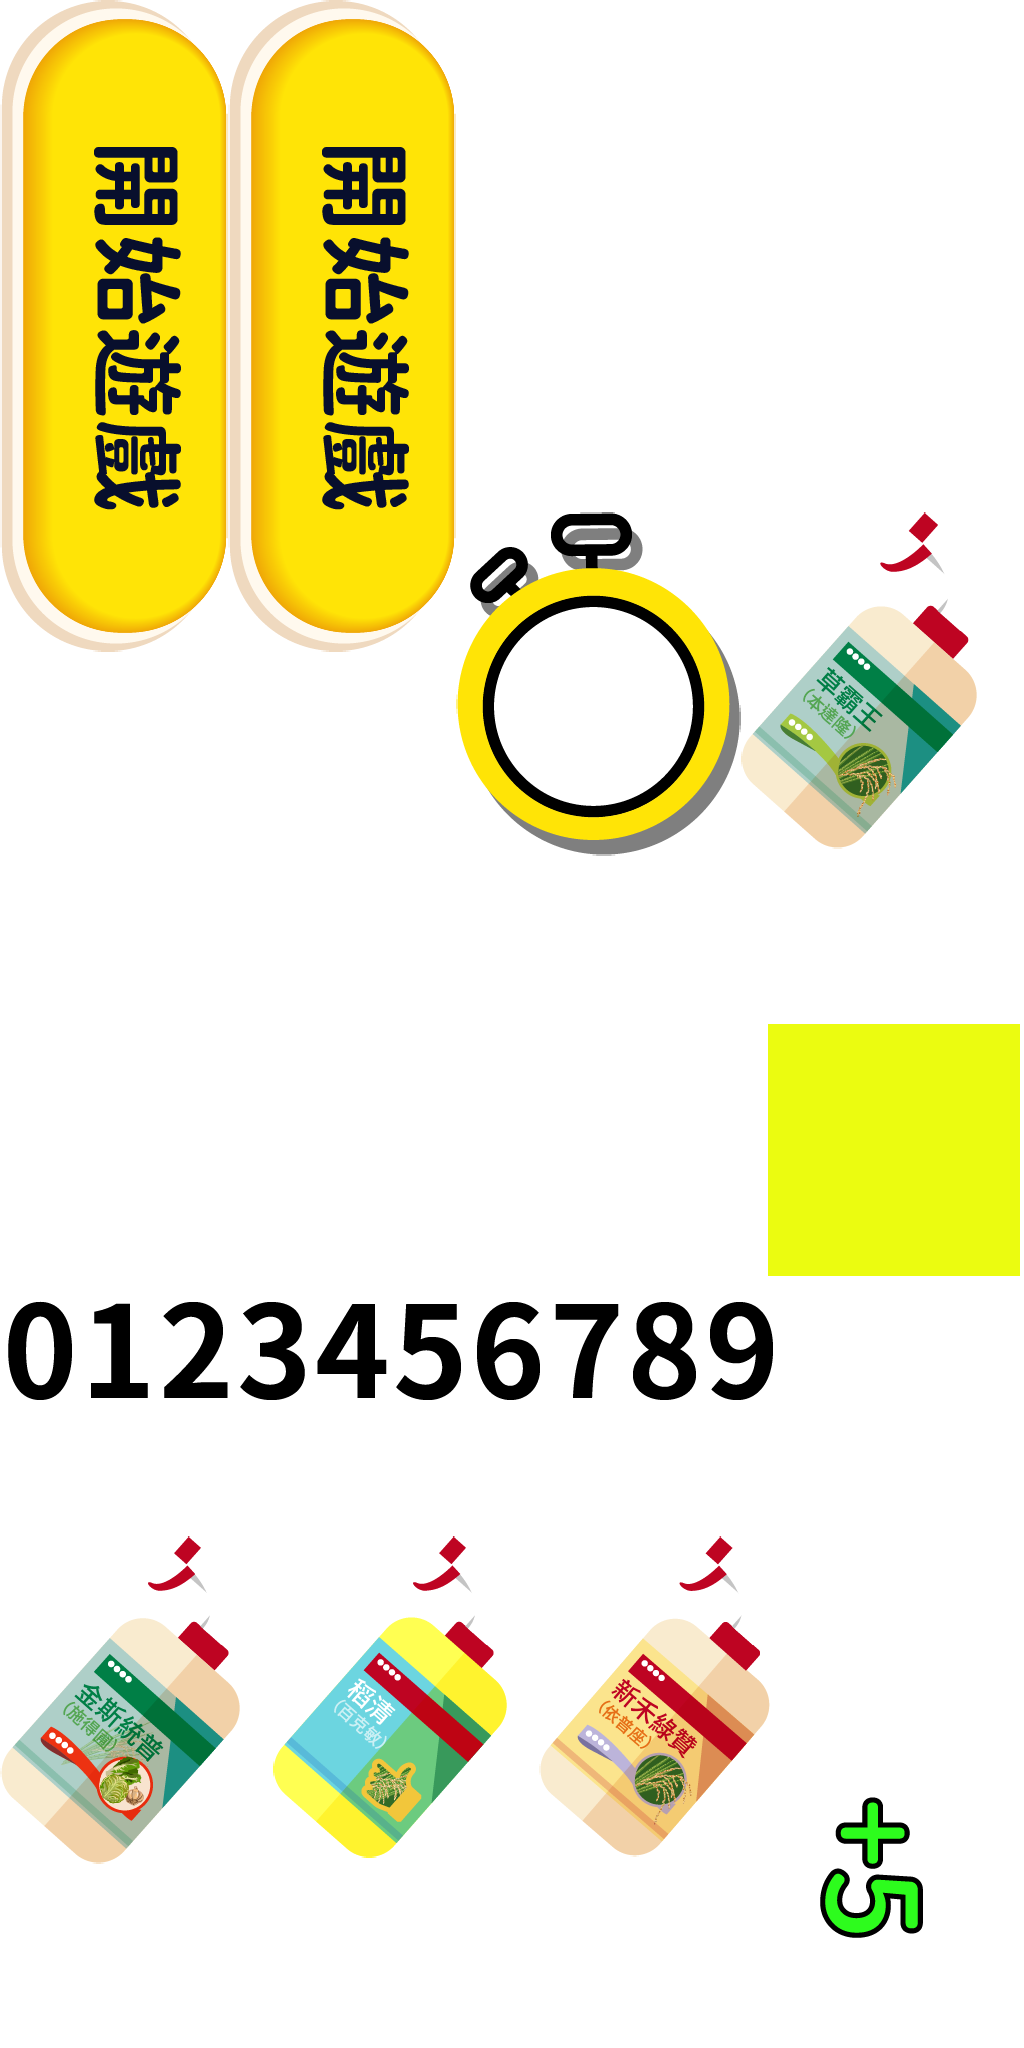
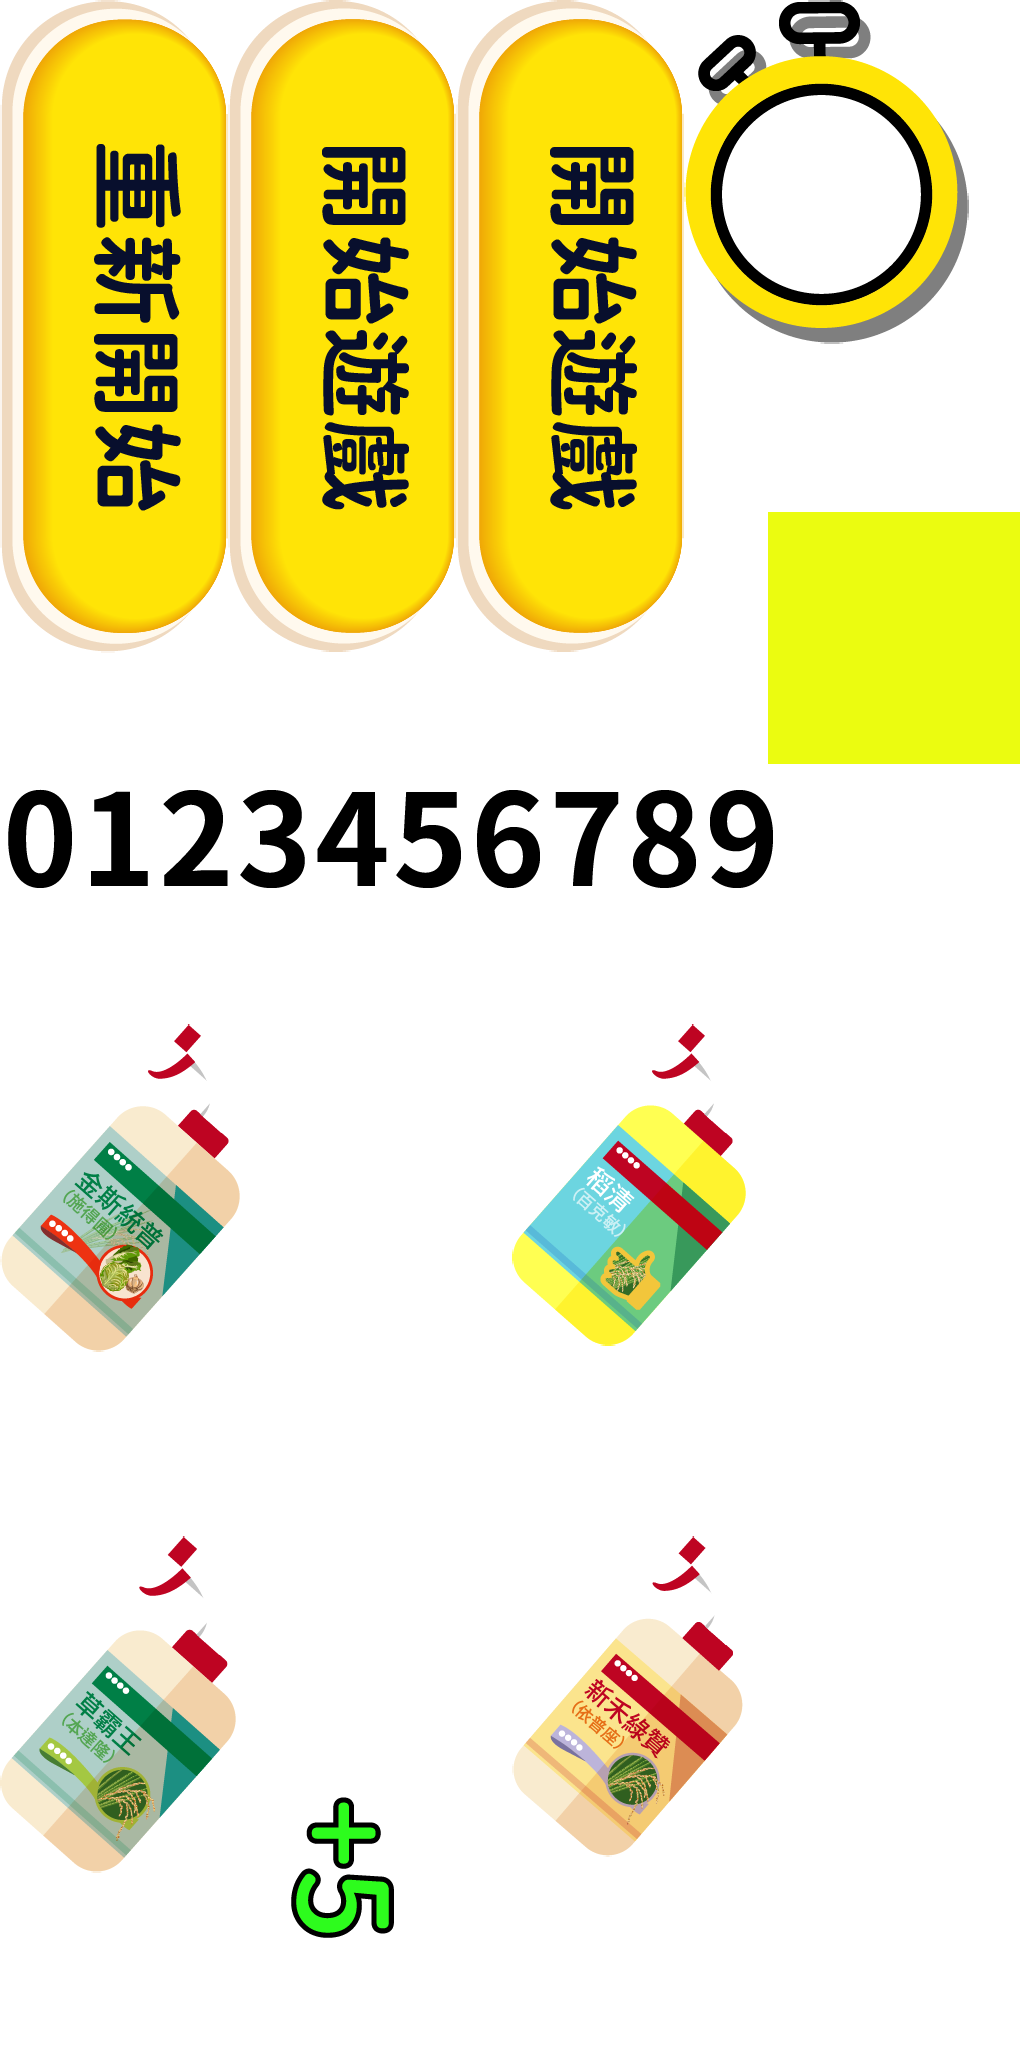
20230203_Fixed

diff --git a/scripts/c3runtime.js b/scripts/c3runtime.js
@@ -4122,8 +4122,11 @@ self.C3_GetObjectRefTable = function () {
 		C3.Plugins.TextBox,
 		C3.Plugins.System.Cnds.IsGroupActive,
 		C3.Plugins.System.Cnds.OnLayoutStart,
+		C3.Plugins.System.Acts.SetLayerVisible,
+		C3.Plugins.System.Acts.SetLayerInteractive,
+		C3.Plugins.LocalStorage.Acts.GetItem,
 		C3.Plugins.System.Acts.Wait,
-		C3.ScriptsInEvents.事件表1_Event2_Act3,
+		C3.ScriptsInEvents.事件表1_Event2_Act6,
 		C3.Plugins.AJAX.Acts.Request,
 		C3.Plugins.AJAX.Cnds.OnComplete,
 		C3.Plugins.Json.Acts.Parse,
@@ -4132,36 +4135,33 @@ self.C3_GetObjectRefTable = function () {
 		C3.Plugins.Json.Exps.ToCompactString,
 		C3.Plugins.Json.Exps.Get,
 		C3.ScriptsInEvents.事件表1_Event3_Act6,
-		C3.Plugins.System.Acts.SetLayerVisible,
-		C3.Plugins.System.Acts.SetLayerInteractive,
-		C3.Plugins.Sprite.Acts.StopAnim,
-		C3.Plugins.LocalStorage.Acts.GetItem,
 		C3.Plugins.LocalStorage.Cnds.OnItemGet,
 		C3.Plugins.LocalStorage.Exps.ItemValue,
 		C3.Plugins.LocalStorage.Cnds.OnItemMissing,
+		C3.Plugins.Sprite.Acts.StopAnim,
+		C3.Plugins.Sprite.Acts.SetAnimFrame,
+		C3.Plugins.Sprite.Acts.SetPos,
+		C3.Plugins.Sprite.Acts.SetInstanceVar,
 		C3.Plugins.LocalStorage.Acts.SetItem,
 		C3.Plugins.Sprite.Acts.SetBoolInstanceVar,
-		C3.Plugins.Sprite.Acts.SetPos,
-		C3.Plugins.Sprite.Acts.SetAnimFrame,
 		C3.Plugins.Touch.Cnds.OnTapGestureObject,
 		C3.Plugins.System.Acts.SetBoolVar,
 		C3.Plugins.Button.Cnds.OnClicked,
 		C3.Plugins.TextBox.Exps.Text,
 		C3.Plugins.Button.Acts.SetEnabled,
 		C3.Plugins.System.Cnds.CompareVar,
-		C3.ScriptsInEvents.事件表1_Event24_Act2,
+		C3.ScriptsInEvents.事件表1_Event25_Act2,
 		C3.Plugins.System.Acts.AddVar,
 		C3.Plugins.System.Cnds.ForEach,
 		C3.Plugins.Sprite.Cnds.CompareInstanceVar,
 		C3.Plugins.System.Exps.int,
 		C3.Plugins.System.Exps.random,
 		C3.Plugins.System.Cnds.Compare,
-		C3.Plugins.Sprite.Acts.SetInstanceVar,
 		C3.Plugins.System.Cnds.Every,
 		C3.Plugins.System.Cnds.CompareBoolVar,
 		C3.Plugins.Spritefont2.Acts.SetText,
-		C3.ScriptsInEvents.事件表1_Event40_Act1,
 		C3.ScriptsInEvents.事件表1_Event41_Act1,
+		C3.ScriptsInEvents.事件表1_Event42_Act1,
 		C3.Plugins.Sprite.Cnds.CompareFrame,
 		C3.Plugins.Sprite.Acts.StartAnim,
 		C3.Plugins.Mouse.Exps.X,
@@ -4190,6 +4190,7 @@ self.C3_JsPropNameTable = [
 	{Btn_Herbicide3: 0},
 	{Btn_Herbicide4: 0},
 	{Btn_StartGame: 0},
+	{Btn_PlayAgain: 0},
 	{AJAX: 0},
 	{JSON: 0},
 	{LocalStorage: 0},
@@ -4213,7 +4214,7 @@ self.C3_JsPropNameTable = [
 	{Weed1: 0},
 	{位圖字體: 0},
 	{計時器: 0},
-	{Sprite: 0},
+	{Point: 0},
 	{平鋪背景: 0},
 	{PhoneNumber: 0},
 	{Name: 0},
@@ -4336,6 +4337,8 @@ function or(l, r)
 
 self.C3_ExpressionFuncs = [
 		() => "測試用程式",
+		() => 0,
+		() => "id",
 		() => 0.1,
 		() => "data",
 		p => {
@@ -4357,19 +4360,18 @@ self.C3_ExpressionFuncs = [
 			return () => n0.ExpObject(((and(v1.GetValue(), ".") + v2.GetValue()) + ".email"));
 		},
 		() => "初始化",
-		() => 0,
+		() => "",
 		() => 1,
 		() => 2,
 		() => 3,
-		() => "id",
-		() => "",
+		() => 4,
+		() => 1600,
+		() => -300,
+		() => -1,
 		p => {
 			const v0 = p._GetNode(0).GetVar();
 			return () => v0.GetValue();
 		},
-		() => 1600,
-		() => -300,
-		() => -1,
 		() => "按鈕事件",
 		() => "AJAX事件",
 		() => "GetPlayerData",

diff --git a/scripts/project/scriptsInEvents.js b/scripts/project/scriptsInEvents.js
@@ -3,7 +3,7 @@
 
 const scriptsInEvents = {
 
-	async 事件表1_Event2_Act3(runtime, localVars)
+	async 事件表1_Event2_Act6(runtime, localVars)
 	{
 		console.log("UserID : "+runtime.globalVars.UserID);
 	},
@@ -27,19 +27,19 @@ const scriptsInEvents = {
 		}
 	},
 
-	async 事件表1_Event24_Act2(runtime, localVars)
+	async 事件表1_Event25_Act2(runtime, localVars)
 	{
 		console.log("Add new player data!");
 		var js = JSON.parse(runtime.globalVars.UserID);
 		runtime.globalVars.UserID = js["name"];
 	},
 
-	async 事件表1_Event40_Act1(runtime, localVars)
+	async 事件表1_Event41_Act1(runtime, localVars)
 	{
 		console.log("Grow Time up");
 	},
 
-	async 事件表1_Event41_Act1(runtime, localVars)
+	async 事件表1_Event42_Act1(runtime, localVars)
 	{
 		console.log("GameTime up");
 	}
